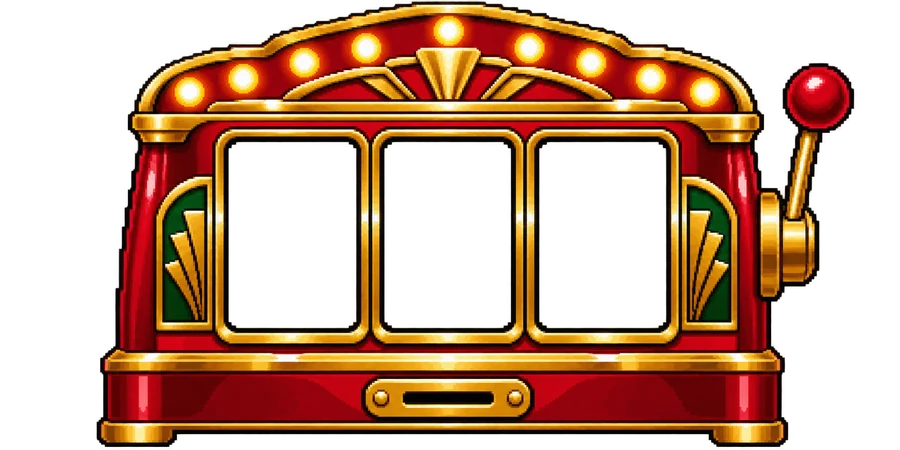
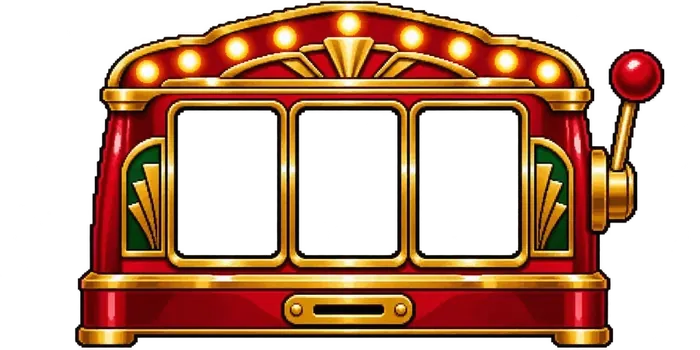
겜블장 배경을 나리가 새로 그린 게임별 배경으로 바꾸고 그림 로딩 줄이기
- 게임 방(정사각형)과 로비 게임 칸(가로 그림)에 게임별 배경
- 그림 크기·용량 줄이기(겜블장 그림 합계 약 절반), 큰 그림 미리 받기, /gamble/* 1년 캐시

Claude-Session: https://claude.ai/code/session_01RqpauUaF3SEZXSJMroPWsN

diff --git a/src/views/gamble.tsx b/src/views/gamble.tsx
@@ -26,6 +26,11 @@ function Art({ name }: { name: string }) {
 const BET_STEPS = [1, 5, 10, 100, 1000, 10000];
 const CARD_RANKS = ['A', '2', '3', '4', '5', '6', '7', '8', '9', '10', 'J', 'Q', 'K'];
 
+// 나리가 그린 게임별 배경: 게임 방은 정사각형(room), 로비의 게임 고르기 칸은 가로로 긴 그림(lobby).
+// 게임 방에서 제일 크게 보이는 그림(먼저 받기 시작해요).
+const MAIN_ART: Record<Game, string> = { slot: 'slotFrame', roulette: 'wheel', cards: 'cardBack' };
+const gameBackground = (game: Game, kind: 'room' | 'lobby') => `/gamble/bg/${game}-${kind}.webp?v=2`;
+
 function ArtLayer({ name }: { name: string }) {
   const image = GAMBLE_ART[name]?.image;
   return image ? <img class="gb-art-layer" src={image} alt="" /> : null;
@@ -182,7 +187,7 @@ function CardDeck() {
 
 function GameSurface({ game, round, canBet }: { game: Game; round: Round | null; canBet: boolean }) {
   return (
-    <div class={`gb-game-surface gb-surface-${game}`} style={GAMBLE_ART.background?.image ? `--gb-bg:url(${GAMBLE_ART.background.image})` : undefined}>
+    <div class={`gb-game-surface gb-surface-${game}`} style={`--gb-bg:url(${gameBackground(game, 'room')})`}>
       {game === 'slot' && <SlotReels reels={round ? JSON.parse(round.state) as number[] : undefined} />}
       {game === 'roulette' && <RouletteWheel landed={round ? Number(round.state) : undefined} />}
       {game === 'cards' && (round ? <Cards round={round} /> : <CardDeck />)}
@@ -248,10 +253,9 @@ export function GambleLobby(props: {
   const [balanceRank = [], bestRank = [], allInRank = [], seasonRank = []] = props.ranks;
   const notice = noticeText(props.notice);
   return (
-    <Layout title="겜블장" viewer={props.viewer} active="gamble">
+    <Layout title="겜블장" viewer={props.viewer} active="gamble" preloadImages={(Object.keys(GAMES) as Game[]).map((game) => gameBackground(game, 'lobby'))}>
       <div class="gb-page">
         <section class="gb-panel gb-lobby-intro">
-          <ArtLayer name="background" />
           <h1>겜블장 <Art name="slot" /></h1>
           <ChipBalance balance={balance} />
           {props.daily && <p role="status">오늘 칩 1000개 받았어요.</p>}
@@ -266,7 +270,7 @@ export function GambleLobby(props: {
         </section>
         <nav class="gb-games" aria-label="게임 고르기">
           {(Object.keys(GAMES) as Game[]).map((game) => (
-            <a class="gb-panel gb-game-link" href={`/gamble/${game}`}>
+            <a class="gb-panel gb-game-link" href={`/gamble/${game}`} style={`--gb-bg:url(${gameBackground(game, 'lobby')})`}>
               <span class="gb-game-link-icon"><Art name={game} /></span>
               <strong>{GAMES[game]}</strong>
               {game === 'cards' && props.inProgress && <span class="gb-game-progress">진행 중</span>}
@@ -297,7 +301,8 @@ export function GambleRoom(props: {
   const motion = result ?? (hand && hand.token === props.result?.token ? hand : null);
   const notice = noticeText(props.notice);
   return (
-    <Layout title={GAMES[game]} viewer={props.viewer} active="gamble" scripts={[{ src: '/gamble.js?v=3', type: 'module' }]}>
+    <Layout title={GAMES[game]} viewer={props.viewer} active="gamble" scripts={[{ src: '/gamble.js?v=3', type: 'module' }]}
+      preloadImages={[gameBackground(game, 'room'), ...[MAIN_ART[game]].flatMap((name) => GAMBLE_ART[name]?.image ?? [])]}>
       <div class="gb-page gb-room-page">
         <div class="gb-room-bar">
           <a href="/gamble">← 겜블장</a>

diff --git a/src/gamble-art.ts b/src/gamble-art.ts
@@ -4,20 +4,19 @@ export const GAMBLE_ART: Record<string, GambleArt> = {
   slot: { text: '🎰' },
   roulette: { text: '🎡' },
   cards: { text: '🃏' },
-  cherry: { text: '🍒', image: '/gamble/cherry.webp?v=1' },
-  lemon: { text: '🍋', image: '/gamble/lemon.webp?v=1' },
-  star: { text: '⭐', image: '/gamble/star.webp?v=1' },
-  seven: { text: '7⃣', image: '/gamble/seven.webp?v=1' },
+  cherry: { text: '🍒', image: '/gamble/cherry.webp?v=2' },
+  lemon: { text: '🍋', image: '/gamble/lemon.webp?v=2' },
+  star: { text: '⭐', image: '/gamble/star.webp?v=2' },
+  seven: { text: '7⃣', image: '/gamble/seven.webp?v=2' },
   spade: { text: '♠' },
   heart: { text: '♥' },
   diamond: { text: '♦' },
   club: { text: '♣' },
-  coin: { text: '🪙', image: '/gamble/chip.webp?v=1' },
-  background: { text: '', image: '/gamble/background.webp?v=1' },
-  slotFrame: { text: '', image: '/gamble/slot-frame.webp?v=1' },
-  wheel: { text: '', image: '/gamble/wheel-rim.webp?v=1' },
-  pointer: { text: '▼', image: '/gamble/pointer.webp?v=1' },
-  cardBack: { text: '🂠', image: '/gamble/card-back.webp?v=1' },
+  coin: { text: '🪙', image: '/gamble/chip.webp?v=2' },
+  slotFrame: { text: '', image: '/gamble/slot-frame.webp?v=2' },
+  wheel: { text: '', image: '/gamble/wheel-rim.webp?v=2' },
+  pointer: { text: '▼', image: '/gamble/pointer.webp?v=2' },
+  cardBack: { text: '🂠', image: '/gamble/card-back.webp?v=2' },
   cardFront: { text: '' },
 };
 export const SLOT_ART = ['cherry', 'lemon', 'star', 'seven'] as const;

diff --git a/public/styles.css b/public/styles.css
@@ -1862,7 +1862,7 @@ main.wide { max-width: 1320px; }
 .gb-reel-symbol .gb-art { width: 1.3em; height: 1.3em; }
 /* 겜블장 배경 그림: 게임 판은 초록 테이블 위에, 로비 첫 상자는 어둡게 덮어 글씨가 잘 보이게 */
 .gb-game-surface[style*="--gb-bg"] {
-  background: var(--gb-bg) center 75% / cover no-repeat;
+  background: var(--gb-bg) center / cover no-repeat;
   border: 3px solid #273551;
   padding: .9rem .6rem;
   color: #fff8e6;
@@ -1940,3 +1940,13 @@ main.wide { max-width: 1320px; }
 .gb-card-back:has(> .gb-art), .gb-card-deck:has(> .gb-art) { border: 0; box-shadow: none; background: none; }
 .gb-card-deck:has(> .gb-art) { width: 3.3rem; height: auto; aspect-ratio: 424 / 592; }
 .gb-card-back .gb-art, .gb-card-deck .gb-art { image-rendering: pixelated; }
+/* 로비의 게임 고르기 칸: 게임마다 나리가 그린 가로 그림을 깔고 글씨는 밝게 */
+.gb-game-link[style*="--gb-bg"] {
+  background: var(--gb-bg) center / cover no-repeat;
+  color: #fff3d6;
+  text-shadow: 0 1px 0 #000, 0 0 4px #000;
+  min-height: 7.5rem;
+}
+.gb-game-link[style*="--gb-bg"]:hover, .gb-game-link[style*="--gb-bg"]:focus-visible { background: var(--gb-bg) center / cover no-repeat; filter: brightness(1.15); }
+.gb-game-link[style*="--gb-bg"] strong { color: #ffd75e; font-size: 1.1rem; }
+.gb-game-link[style*="--gb-bg"] .gb-game-progress { color: #202944; text-shadow: none; }

diff --git a/src/views/layout.tsx b/src/views/layout.tsx
@@ -12,6 +12,8 @@ export function Layout(props: {
   refresh?: { seconds: number; url: string };
   wide?: boolean;
   scripts?: (string | { src: string; type: 'module' })[];
+  /** 화면에 바로 보일 큰 그림(배경 등)을 CSS보다 먼저 받기 시작해요. */
+  preloadImages?: string[];
   children?: Child;
 }) {
   const nav = (key: NavKey, href: string, label: string, icon: string) => (
@@ -27,8 +29,9 @@ export function Layout(props: {
         {props.refresh && <meta http-equiv="refresh" content={`${props.refresh.seconds}; url=${props.refresh.url}`} />}
         <title>{props.title} · 하리보 멤버 도감</title>
         <link rel="preload" href="/fonts/Galmuri11.woff2" as="font" type="font/woff2" crossorigin="" />
+        {props.preloadImages?.map((href) => <link rel="preload" href={href} as="image" fetchpriority="high" />)}
         <link rel="icon" type="image/png" href="/char/deco/explorer.png" />
-        <link rel="stylesheet" href="/styles.css?v=cards-2" />
+        <link rel="stylesheet" href="/styles.css?v=bg-3" />
         <script src="/app.js?v=fast-act-1" defer></script>
         {props.scripts?.map((script) => typeof script === 'string'
           ? <script src={script} defer></script>
